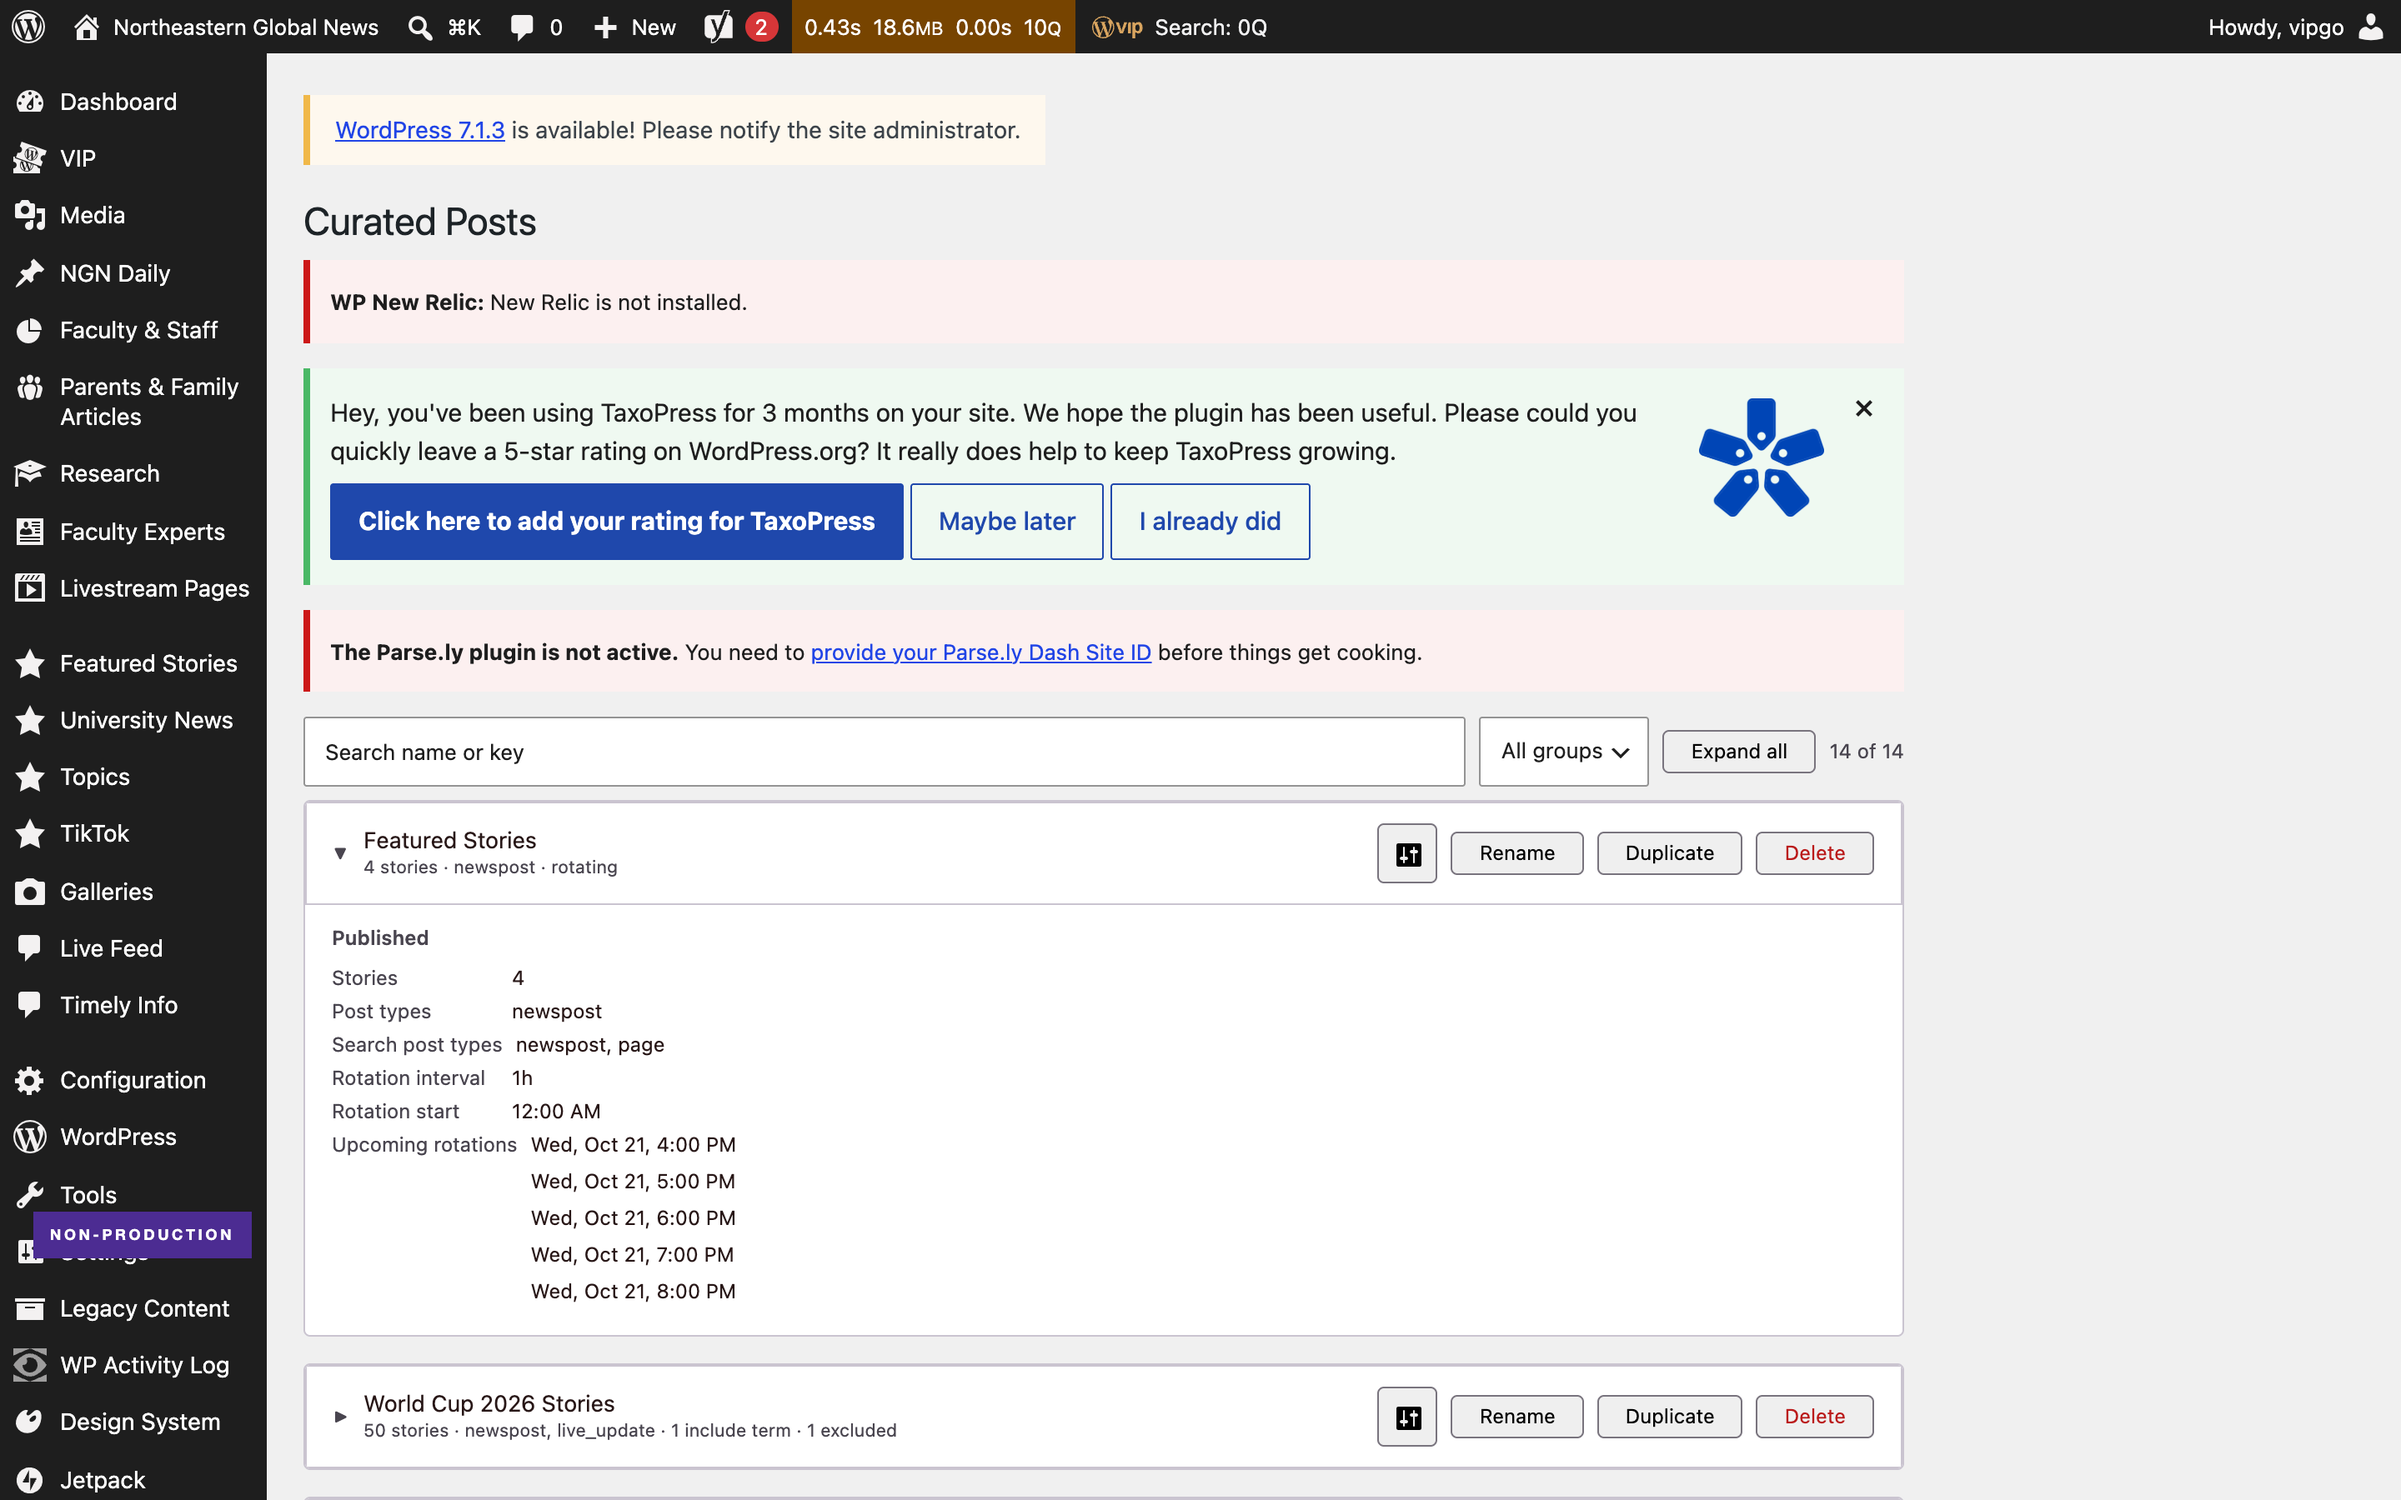
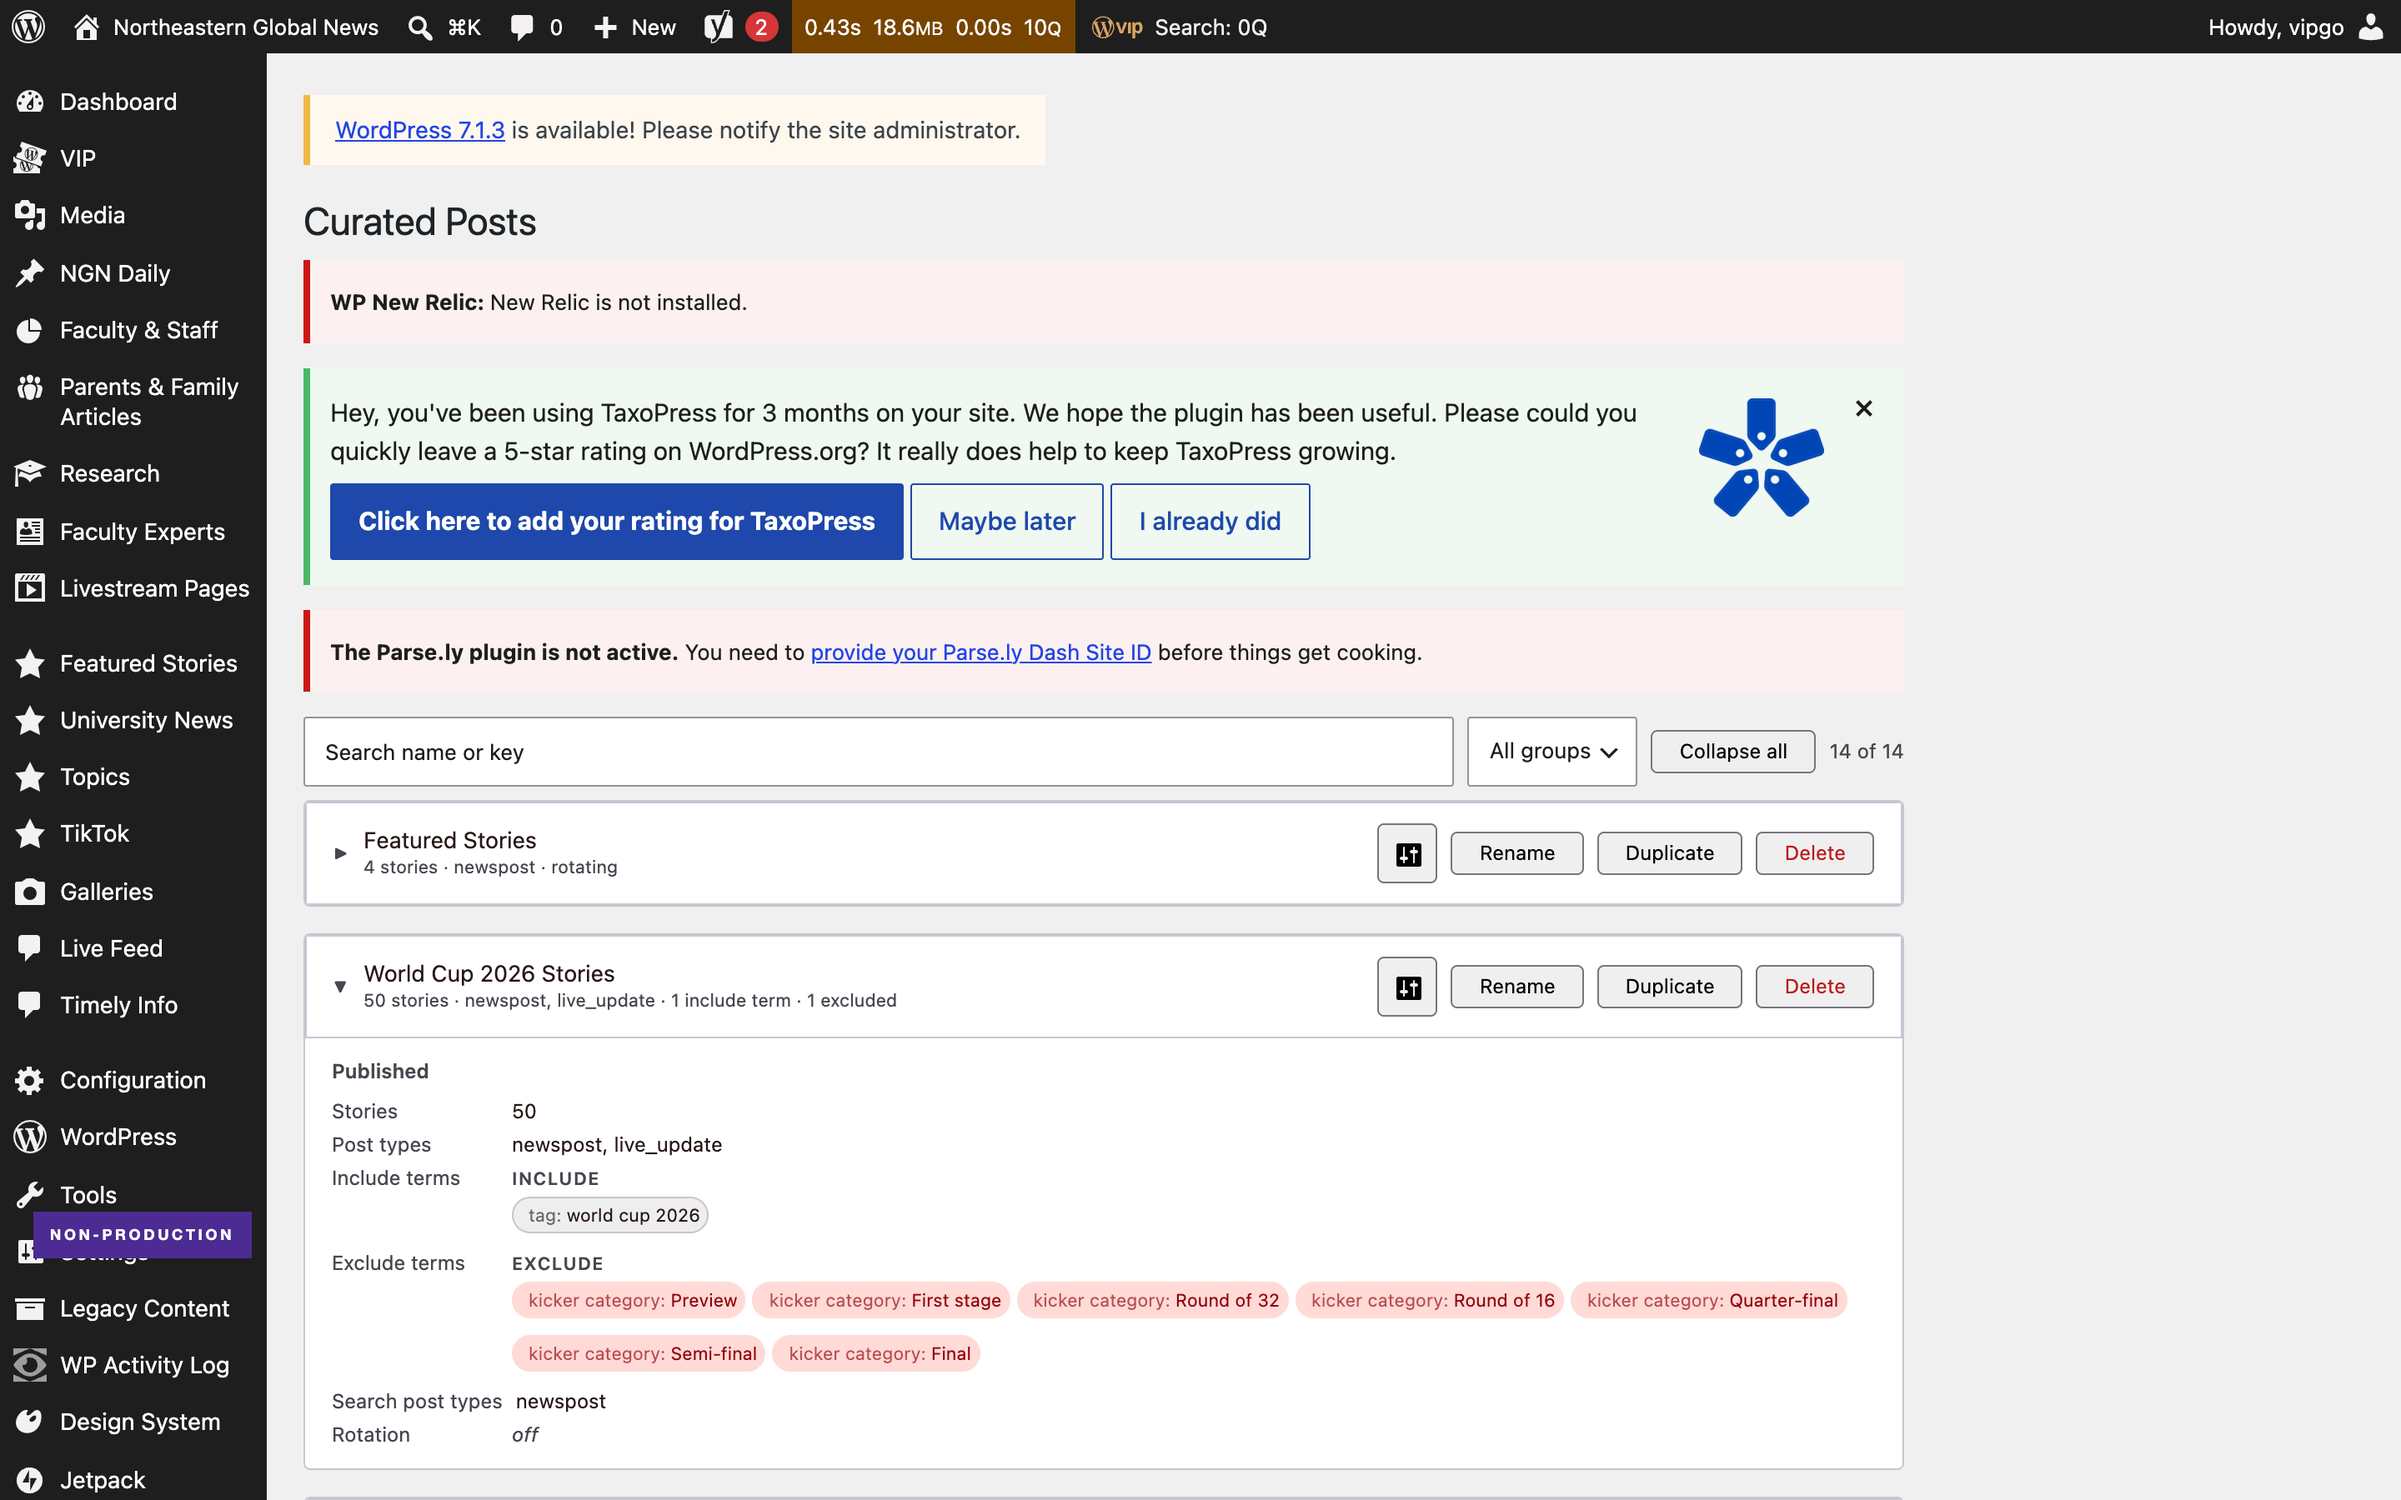
Update the evidence for the aligned-rows change
The write-up still described cards dropping their empty rows, which was
true for about an hour. Reviewing the branch on the real screen showed
that two cards could no longer be read against each other, so every card
now renders the same six rows and marks the empty ones.

Re-captured the expanded card, added the two-card alignment shot, and
replaced the row count with the heights the change actually costs:
unchanged collapsed, 1,917px with one card open, 5,022px with all
fourteen, against 5,372px for the old screen at rest.

diff --git a/evidence/index.html b/evidence/index.html
@@ -67,7 +67,7 @@ footer.pf a { color: var(--wp-blue); }
     <div class="stat"><b>5,372px <span class="delta">&rarr; 1,659px</span></b><span>page height, a 69% reduction</span></div>
     <div class="stat"><b>6.0 <span class="delta">&rarr; 1.8</span></b><span>screens of scroll at 900px</span></div>
     <div class="stat"><b>0 <span class="delta">&rarr; 1</span></b><span>search field</span></div>
-    <div class="stat"><b>8 <span class="delta">&rarr; 6</span></b><span>rows on an open card</span></div>
+    <div class="stat"><b>6</b><span>the same rows on every card, empty ones marked</span></div>
   </div>
 
   <h2 class="sec">Side by side</h2>
@@ -106,8 +106,25 @@ footer.pf a { color: var(--wp-blue); }
       <img src="after-04-expanded-1440.png" alt="One card expanded, showing only the settings that hold a value">
       <figcaption>
         <b>One card opened</b>
-        Clicking a header opens that card only, and settings with no value are not
-        printed. Six rows where the old card showed eight.
+        The same six rows on every card, in the same order, so two cards read against
+        each other. A setting holding no value keeps its row and says so in italic.
+      </figcaption>
+    </figure>
+  </div>
+
+  <h2 class="sec">Rows line up card to card</h2>
+  <p class="note">
+    Every instance renders the same six rows in the same order. An empty setting keeps its
+    row and says so in italic, because "none set" and "not checked" are different things.
+    Rotation start and upcoming rotations appear only when rotation is on.
+  </p>
+  <div class="ba wide">
+    <figure>
+      <img src="after-07-aligned-rows.png" alt="Two expanded cards whose settings rows align with each other">
+      <figcaption>
+        <b>Aligned</b>
+        Collapsed the page is unchanged at 1,659px. With all fourteen cards open it is
+        5,022px, still shorter than the 5,372px the screen occupied at rest before.
       </figcaption>
     </figure>
   </div>

diff --git a/evidence/README.md b/evidence/README.md
@@ -19,7 +19,7 @@ Chromium, 1440 x 900, deviceScaleFactor 2, on 21 October 2026.
 | Search controls | 0 | **1** | — |
 | Group filter | none | **1** | — |
 | Visible count | none | "14 of 14" | — |
-| Settings rows on an open card | 8 | **6** | unset ones dropped |
+| Settings rows on an open card | 8, all always shown | **6**, same six every time | rotation rows only when it rotates |
 | Rename / Duplicate / Delete | 14 each | 14 each | unchanged |
 
 The local database holds **14 instances**; production holds **47**. The problems are the
@@ -57,10 +57,19 @@ Typing `featured` leaves one card. The count reads "1 of 14" and is announced th
 
 ### One card opened
 
-Clicking a card header opens that card only. Settings with no value are not printed, so
-this card shows six rows where the old one showed eight.
+Clicking a card header opens that card only.
 
-![One card expanded, showing only the settings that hold a value](after-04-expanded-1440.png)
+Every card shows **the same six rows in the same order** — stories, post types, include
+terms, exclude terms, search post types, rotation — so two cards read against each other.
+A setting holding no value keeps its row and says so in italic rather than disappearing,
+because "none set" and "not checked" are different things. Rotation start and upcoming
+rotations appear only when rotation is on, since they are meaningless otherwise.
+
+![One card expanded, showing the same six rows with rotation marked off in italic](after-04-expanded-1440.png)
+
+Two cards side by side, labels aligned:
+
+![Two expanded cards whose settings rows line up with each other](after-07-aligned-rows.png)
 
 ### Keyboard
 
@@ -149,6 +158,25 @@ a trigger by default. It is recorded here because it was checked, not assumed.
 After the fixes: 1,275 tests still pass, axe still reports no violations in all three
 states, a 140-character label no longer grows the page past 1440px, and there are no
 console errors through the whole sequence.
+
+### A fifth change, from reviewing it on the real screen
+
+Dropping unset rows entirely left two cards impossible to read against each other: one
+showed Exclude terms and the next did not, so the labels stopped lining up and "no
+exclusions set" looked the same as "I have not checked". The variation between instances
+was always there; hiding the empty rows is what made it visible.
+
+Every card now renders the same six rows and marks the empty ones. This costs height only
+on an expanded card:
+
+| | Height |
+| --- | ---: |
+| Collapsed, the default | **1,659px**, unchanged |
+| One card open | 1,917px |
+| All fourteen open | 5,022px |
+| The old screen, always open | 5,372px |
+
+Even with every card expanded it is shorter than the screen used to be at rest.
 
 ---
 
